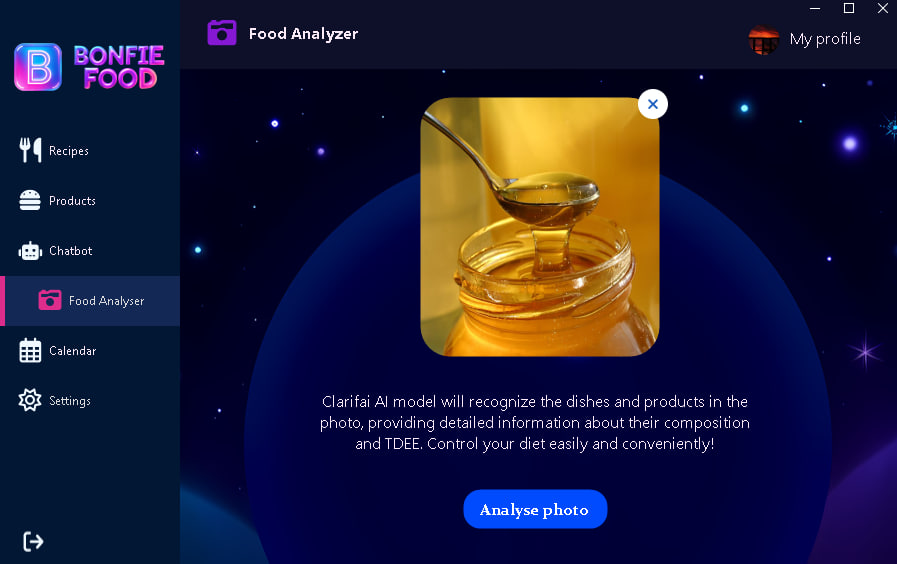
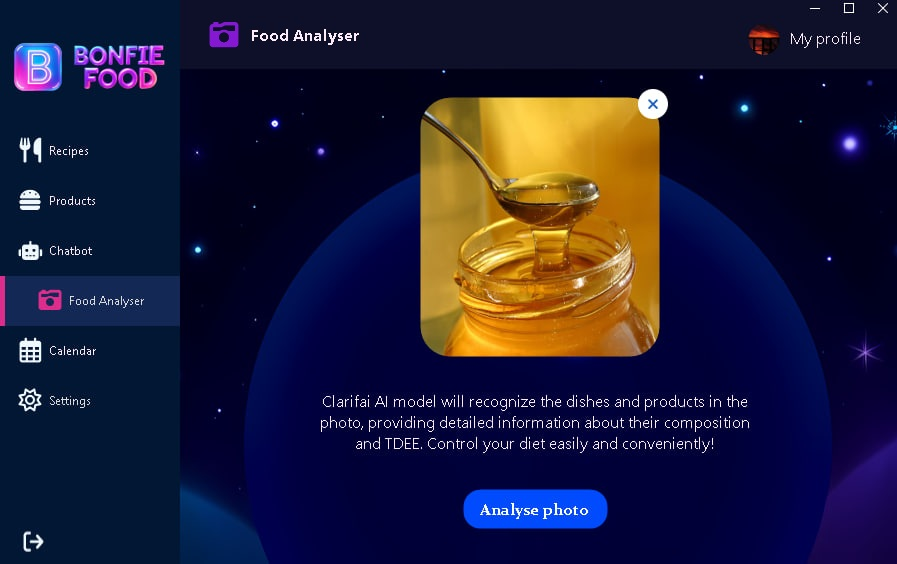
Correction of spelling mistakes

diff --git a/BonfieFood/Home.cs b/BonfieFood/Home.cs
@@ -511,7 +511,7 @@ namespace BonfieFood
         {
             ActivateButton(sender, pinkBar);
             CurrentPage(new Scanner());
-            nameOfPage.Text = "Food Analyzer";
+            nameOfPage.Text = "Food Analyser";
             iconOfPage.IconColor = Color.FromArgb(132, 24, 211);
         }
         private void calendarBtn_Click(object sender, EventArgs e)
